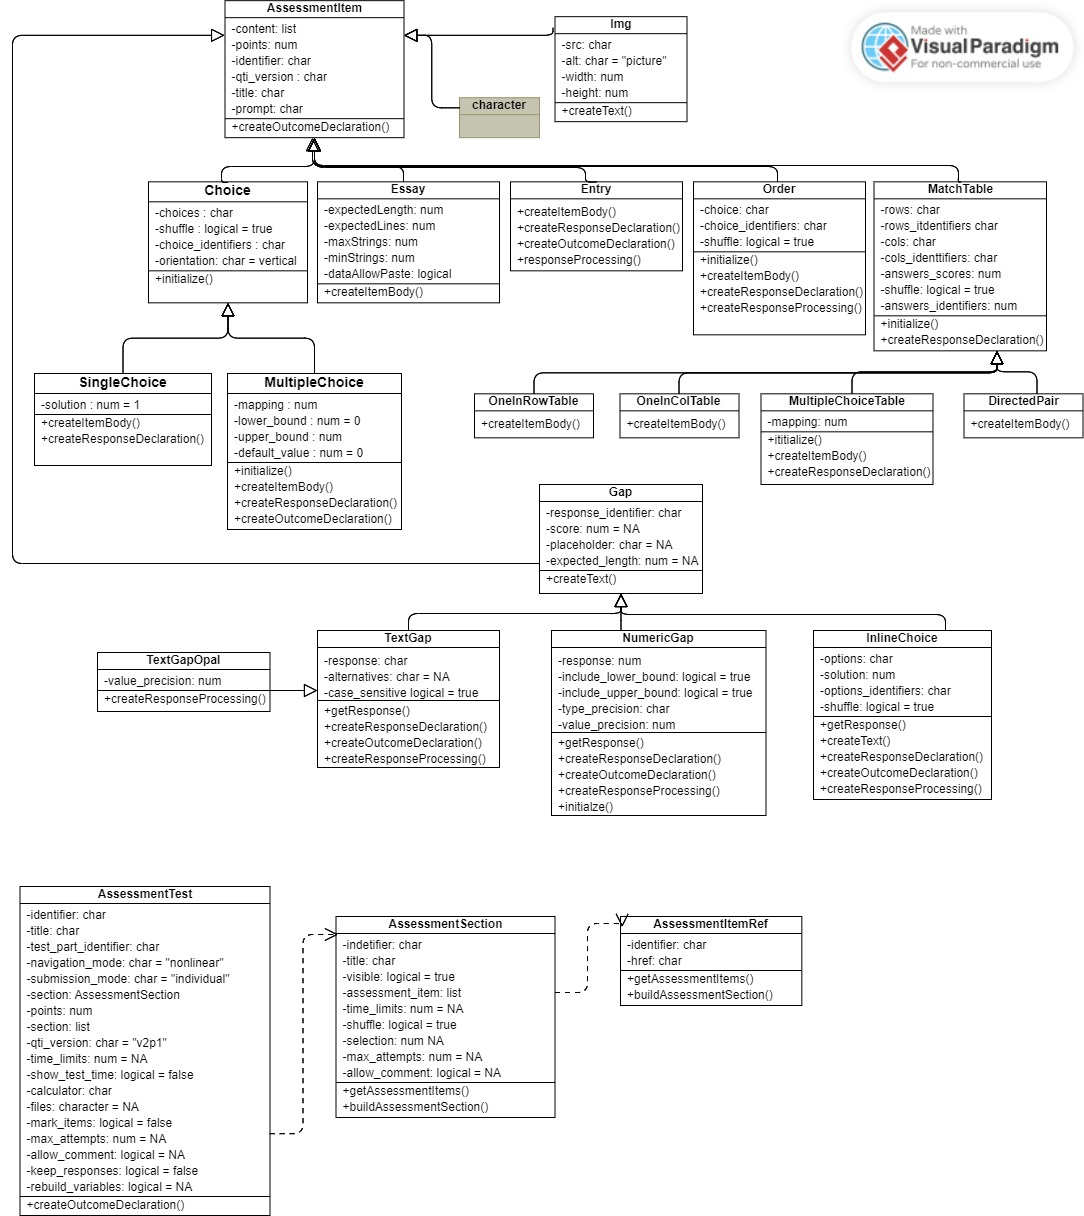
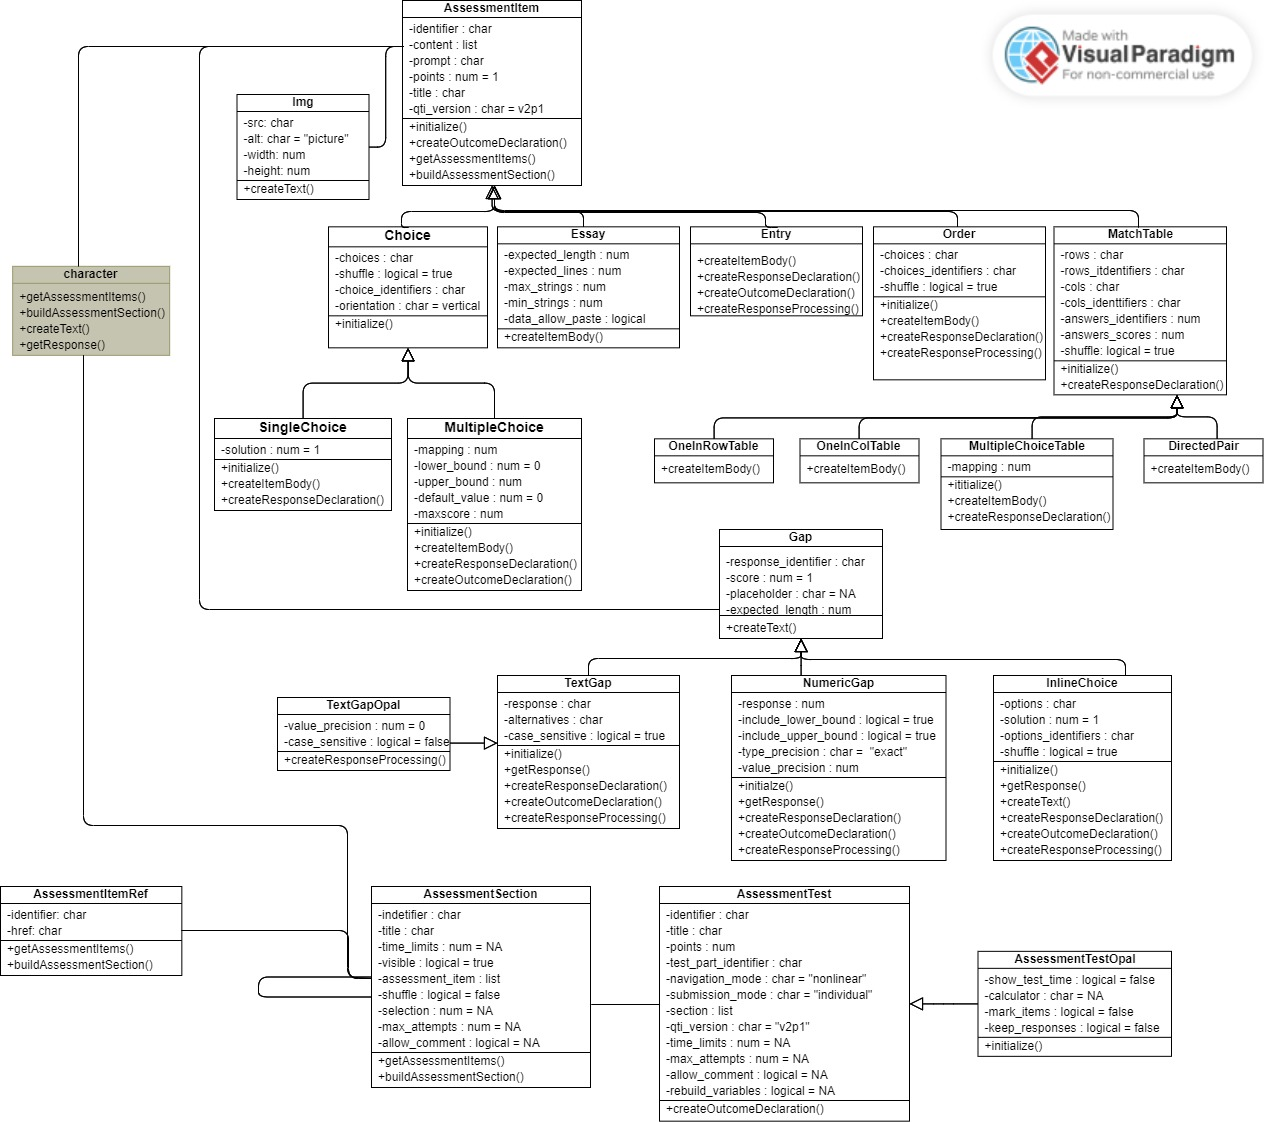
refactor: Update class scheme, including readme

diff --git a/README.md b/README.md
@@ -86,23 +86,38 @@ for gaps with text:
 - Simply use <code>\<\<\>\></code> for a gap, example:  
 *Some text, and now the gap <code>\<\<Right answer\>\>\></code>*  
 - or use YAML description inside \<\<\>\> to add more attributes:  
-*Some Text, and then the gap: <code>\<\<{type:text, content:
-{response:Right answer, alternatives:\[Right answer, right answer,
-answer\], lenghth:10, placeholder: some text, tolerance = 1}\>\></code>
+*Some Text, and then the gap: <code>\<\<{type: text, response: Right
+answer, alternatives: \[Right answer, right answer, answer\],
+case_sensitive: false, lenghth: 10, placeholder: some text\>\></code>
 Some more text.*
 
-#### List of attributes for gap description in YAML format
+#### List of attributes for YAML description of a gap with text content
 
-| attribute    | type                    | description                                                                                                                                                      |
-|--------------|-------------------------|------------------------------------------------------------------------------------------------------------------------------------------------------------------|
-| type         | text or numeric         | text for gaps with text;<br />numeric for gaps with numbers                                                                                                      |
-| response     | text or numeric         | string or numeric value that is considered as a right response for the gap                                                                                       |
-| alternatives | vector of string values | provides a set of alternative values that are considered as a right answer for the gap; the set of alternatives must not include the value of the correct answer |
-| length       | integer                 | sets the size of the text field                                                                                                                                  |
-| placeholder  | string                  | provides placeholder text in the text field, can be used to show some pattern of answer                                                                          |
-| score        | integer                 | mark for the correct answer to the question                                                                                                                      |
+| attribute      | type                    | description                                                                                                                                                      |
+|----------------|-------------------------|------------------------------------------------------------------------------------------------------------------------------------------------------------------|
+| type           | text                    | “type” attribute should assign “text” for gap with text content                                                                                                  |
+| response       | text                    | string value that is a right response for the gap                                                                                                                |
+| alternatives   | vector of string values | provides a set of alternative values that are considered as a right answer for the gap; the set of alternatives must not include the value of the correct answer |
+| case_sensitive | logical                 | controls whether or not the candidate answer is case sensitive. In case of omission, “true” is assigned                                                          |
+| length         | integer                 | sets the size of the text field                                                                                                                                  |
+| placeholder    | string                  | provides placeholder text in the text field, can be used to show some pattern of answer                                                                          |
+| score          | integer                 | mark for the correct answer to the question                                                                                                                      |
 
 for gaps with numbers:
+
+#### List of attributes for YAML description of a gap with numeric content
+
+| attribute       | type    | description                                                                                                     |
+|-----------------|---------|-----------------------------------------------------------------------------------------------------------------|
+| type            | text    | “type” attribute should assign “numeric” for gap with numeric content                                           |
+| response        | numeric | numeric value that is a right response for the gap                                                              |
+| value_precision | numeric | number to indicate the upper and lower bounds within which the candidate’s answer is considered correct         |
+| type_precision  | string  | can be "exact", "absolute", or "relative" only                                                                  |
+| lower_bound     | logical | controls whether or not the lower bound is included in tolerance range. In case of omission, “true” is assigned |
+| upper_bound     | logical | controls whether or not the upper bound is included in tolerance range. In case of omission, “true” is assigned |
+| length          | integer | sets the size of the text field                                                                                 |
+| placeholder     | string  | provides placeholder text in the text field, can be used to show some pattern of answer                         |
+| score           | integer | mark for the correct answer to the question                                                                     |
 
 for combination:
 
